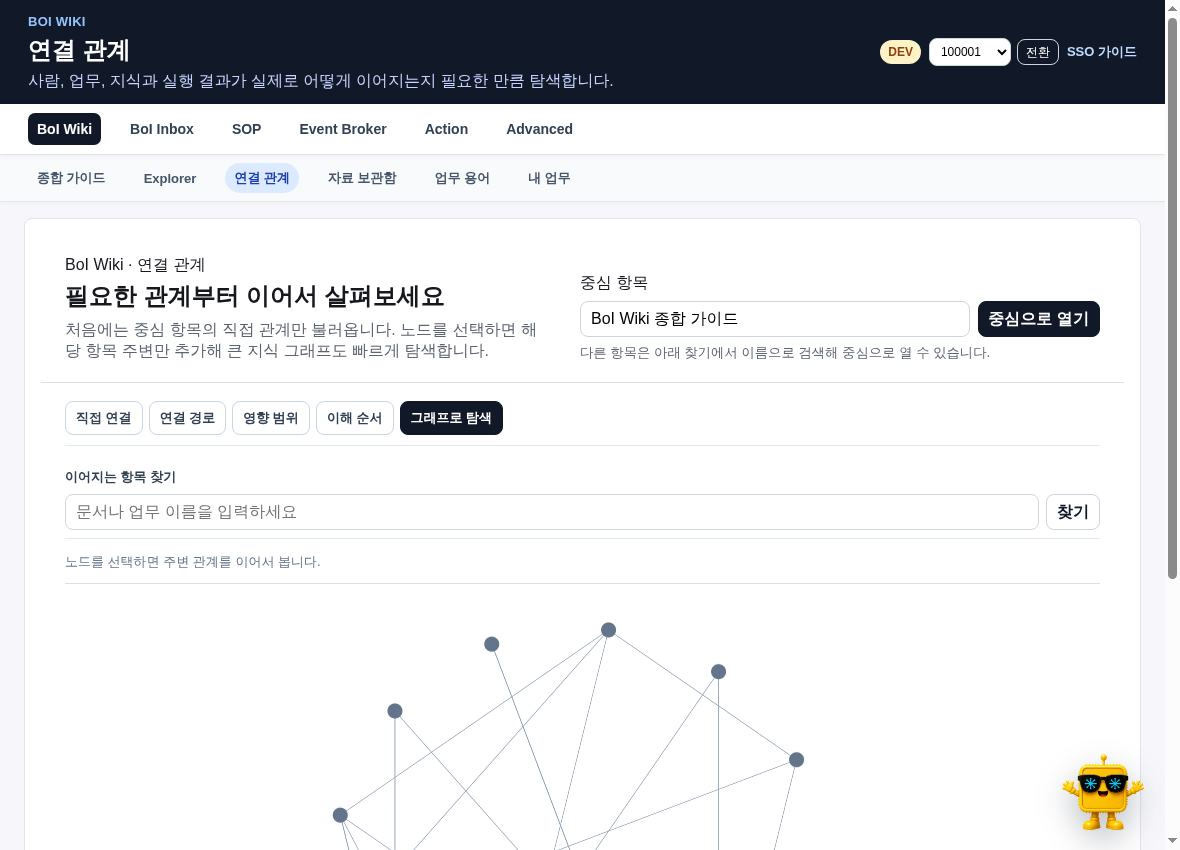
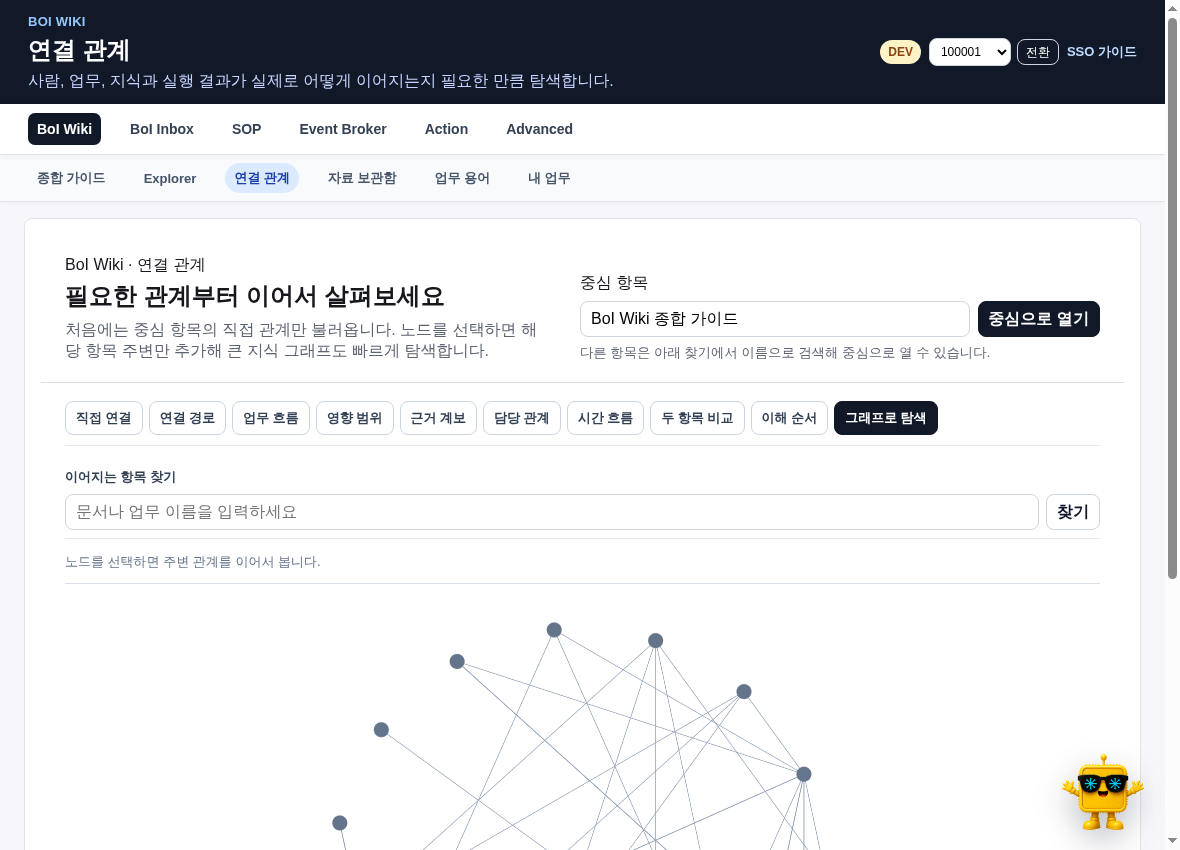
docs: record verified graph and dynamic work acceptance

diff --git a/data/boi/team/platform/validation/task-ontology-a2ui-acceptance-2026-07-13.md b/data/boi/team/platform/validation/task-ontology-a2ui-acceptance-2026-07-13.md
@@ -5,7 +5,7 @@ type: boi/validation-report
 title: Task·Ontology·동적 결과 Acceptance 2026-07-13
 description: 실제 handler, 브라우저와 로컬 Gemma로 Task·Ontology·동적 결과 계약을 재검증한 결과
 tags: [Validation, Task, Ontology, A2UI, Harness, Browser, Gemma]
-timestamp: 2026-07-13T20:10:00+09:00
+timestamp: 2026-07-13T21:31:00+09:00
 boi_id: boi:team:platform:validation:task-ontology-a2ui-2026-07-13
 visibility: team
 team_id: platform
@@ -36,7 +36,7 @@ implementation_refs:
     ref: scripts/evaluate_agent_v2_work_scenarios.py
 review:
   reviewer: platform-lead
-  reviewed_at: 2026-07-13T20:10:00+09:00
+  reviewed_at: 2026-07-13T21:31:00+09:00
   review_status: reviewed
 ---
 
@@ -44,7 +44,7 @@ review:
 
 > 이 문서는 통합 acceptance의 실제 최종 실행 기록이다. core와 선택 Adapter gate를 구분해 실행했으며 둘 다 통과했다. 형식 검사나 숨겨진 fixture는 브라우저 성공으로 계산하지 않았다.
 
-- 검증 기준: `32edc02` graph artifact·OpenKB 경계, `6d1e4d4` Pet graph lifecycle, `7f8e95b` 실제 browser journey
+- 검증 기준: `32edc02` graph artifact·OpenKB 경계, `6d1e4d4` Pet graph lifecycle, `7f8e95b` 실제 browser journey, `41385e3` graph view·guarded confirmation, `52aedf7` 의미별 browser acceptance
 - fixture version: `1.0`
 - generation model: `google/gemma-4-26b-a4b-qat`
 - embedding model: `text-embedding-bge-m3`
@@ -56,9 +56,9 @@ review:
 | 영역 | 결과 |
 |---|---:|
 | 실제 scenario handler | 50/50 |
-| clean 전체 pytest | 814 passed · 22분 57초 · 격리 TMP runtime |
+| clean 전체 pytest | 815 passed · 23분 26초 · 격리 TMP runtime |
 | Gemma 단일·멀티턴 의미 평가 | 17/17 · 모든 지표 100% · GPT-5.5 미사용 |
-| Browser journey | 15/15 · 실제 조작 · console 오류 0 |
+| Browser journey | 17/17 · 실제 조작 · console 오류 0 |
 | Browser 1440×1000 | 통과 |
 | Browser 1180×850 | 통과 |
 | Browser 949×1151 | 통과 |
@@ -66,14 +66,14 @@ review:
 | Sigma canvas·하단 inspector | workbench 폭 100% · nonblank · inspector가 폭을 줄이지 않음 |
 | Compact graph lifecycle | canvas 미생성 · 한 줄 결과 버튼 · Expanded 복원 통과 |
 | invalid surface fallback | 통과 |
-| Harness shadow·held-out·사람 검토 | 통과 · production 변경 0건 |
+| Harness shadow·held-out·사람 검토 | 통과 · 실제 release·rollback 감사 이력 확인 |
 | Context Playbook model·team scope | 통과 |
 | 반복 실패·NegativeResult·운영 Ontology | 통과 |
-| Task Snapshot cold p95 / warm p50 | 289.74ms / 17.27ms |
-| Ontology 1-hop p95 | 15.16ms |
-| Ontology 4-hop path p95 | 12.05ms |
-| A2UI compile p95 | 0.45ms |
-| 생성 graph artifact final p95 | 440.61ms |
+| Task Snapshot cold p95 / warm p50 | 260.32ms / 14.70ms |
+| Ontology 1-hop p95 | 17.20ms |
+| Ontology 4-hop path p95 | 11.37ms |
+| A2UI compile p95 | 0.56ms |
+| 생성 graph artifact final p95 | 464.27ms |
 | Graphify 0.9.13 | 실제 CLI 90 node·177 edge, import·rollback 통과 |
 | OpenKB 0.4.4 | 실제 PDF → private 후보 4개 · index/log 제외 · canonical 변경 0 |
 | Mermaid 직접 링크 cold browser | cold URL·desktop reload·mobile reload 통과 · SVG nonblank·console 오류 0 |
@@ -81,13 +81,13 @@ review:
 | Web·REST·MCP parity | 10/10 |
 | LM Studio load/unload | 0건 |
 
-브라우저에서는 Task의 `확인한 내용·수행한 조치·판단·결과·근거·막힌 점·다음 업무`, 복수 담당자 picker, revision 409, Ontology 1-hop 지연 확장, node 선택과 canonical 이동, split·집중 보기, Compact 중지·복원, 동적 표·Timeline·Mermaid·form과 fallback을 실제 DOM과 canvas로 확인했다.
+브라우저에서는 Task의 `확인한 내용·수행한 조치·판단·결과·근거·막힌 점·다음 업무`, 복수 담당자 picker, revision 409, Ontology 1-hop 지연 확장, node 선택과 canonical 이동, split·집중 보기, Compact 중지·복원, 9개 관계 보기, 동적 표·Timeline·Mermaid·form·Confirmation과 fallback을 실제 DOM과 canvas로 확인했다. 자동 확인은 관계 그림으로 우회하지 않고 기존 preview·confirmation 계약을 통해서만 생성된다.
 
 실제 Graphify export가 mock과 달리 `links`, `confidence: EXTRACTED`, `confidence_score`를 사용한다는 결함을 release gate에서 발견했다. importer를 실제 `0.9.13` 계약에 맞춘 뒤 90개 node와 177개 edge를 수입하고 같은 manifest로 모두 rollback했다. 정본 변경은 없었다.
 
 OpenKB는 `0.4.4`를 격리 tool로 실행했다. compatibility gateway가 `response_format: json_object` 요청을 이미 로드된 Gemma의 일반 JSON 요청으로 바꾸고 반환 schema를 검증한다. 실제 PDF에서 private 후보 4개가 생성됐고 `index.md`, `log.md` 후보는 0건이었다. gateway 요청 5회 중 변환은 4회, 복구 재시도는 0회였고 canonical 파일은 바뀌지 않았다.
 
-생성 graph artifact는 GraphQuery 결과를 deterministic compiler로 바로 저장하고 A2UI를 위해 별도 모델 호출을 하지 않도록 바꿨다. 최종 p95는 440.61ms다. 한편 일반 장문 Gemma 답변은 시나리오별 20~45초가 걸렸으므로 별도 운영 성능 개선 항목으로 남긴다.
+생성 graph artifact는 GraphQuery 결과를 deterministic compiler로 바로 저장하고 A2UI를 위해 별도 모델 호출을 하지 않도록 바꿨다. 최종 p95는 464.27ms다. 한편 일반 장문 Gemma 답변은 시나리오별 20~45초가 걸렸으므로 별도 운영 성능 개선 항목으로 남긴다.
 
 # 발견한 결함과 수정
 
@@ -99,19 +99,23 @@ Harness 개선 검증에서는 실제 Postgres collection registry에 `harness_f
 
 Context Playbook은 관리자 진단 권한과 실제 Context 주입 권한을 분리했다. 다른 사용자의 private 항목과 검토 전 team provisional 항목은 질문 맥락에 들어가지 않는다. 후보는 서버 shadow fingerprint와 fixture revision이 일치해야 평가할 수 있고, held-in·held-out·adversarial·long-term 기준을 모두 통과해도 `approved_not_deployed`로 남는다.
 
+자동 확인 starter는 처음에 `presentation_hint`를 우선한 graph 분기에 가로채져 plan과 Confirmation 대신 Ontology artifact를 만들었다. graph 실행을 지식 탐색 operation으로 제한하고 `work_routine.plan`은 전용 handler가 처리하도록 수정했다. 재검증에서는 Confirmation component가 실제로 보였고, 확인 전 production routine 변경은 0건이었다.
+
+Timeline API는 16개 행을 반환했지만 응답에 함께 있던 빈 `tour_steps` 배열이 실제 `timeline` 배열보다 먼저 선택돼 화면이 비어 보였다. renderer가 이름이 아니라 첫 번째 non-empty 의미 payload를 선택하도록 수정하고, neighbors·path·workflow·impact·lineage·responsibility·timeline·compare·tour를 화면 버튼으로 각각 전환해 결과 차이를 확인했다.
+
 # Raw artifact
 
 검증 raw artifact는 정본 지식이 아니라 runtime evidence다.
 
-- `.tmp/task-ontology-acceptance-report-final4.json`
-- `.tmp/task-ontology-browser-report-final5.json`
-- `.tmp/task-ontology-browser-shots-final5/`
+- `.tmp/task-ontology-acceptance-report-final6.json`
+- `.tmp/task-ontology-browser-report-final6d.json`
+- `.tmp/task-ontology-browser-shots-final6d/`
 - `.tmp/agent-v2-semantic-report-final5-core.json`
 - `.tmp/agent-v2-semantic-report-final5-deep.json`
-- `.tmp/full-pytest-final5.log`
+- `.tmp/full-pytest-final6.log`
 - `.tmp/search-quality-final5.json`
 - `.tmp/interface-parity-final5.json`
-- `.tmp/openkb-release-report-final5.json`
+- `.tmp/openkb-release-report-final6.json`
 - `.tmp/current-manual-capture-manifest.json`
 - `.tmp/graphify-job.json`
 - `.tmp/graphify-rollback.json`

diff --git a/data/boi/public/boi-wiki-manual/operations/task-ontology-a2ui-acceptance.md b/data/boi/public/boi-wiki-manual/operations/task-ontology-a2ui-acceptance.md
@@ -5,7 +5,7 @@ type: boi/manual
 title: Task·Ontology·동적 화면 검증 기준
 description: Task 수행, 업무 관계 탐색과 동적 결과 화면을 실제 업무에 사용하기 전에 확인하는 acceptance 기준
 tags: [BoIWiki, Task, Ontology, A2UI, Acceptance, Evidence]
-timestamp: 2026-07-13T20:10:00+09:00
+timestamp: 2026-07-13T21:31:00+09:00
 boi_id: boi:public:boi-wiki-manual:operations:task-ontology-a2ui-acceptance
 visibility: public
 classification: internal
@@ -33,7 +33,7 @@ implementation_refs:
     ref: scripts/evaluate_agent_v2_work_scenarios.py
 review:
   reviewer: platform-lead
-  reviewed_at: 2026-07-13T20:10:00+09:00
+  reviewed_at: 2026-07-13T21:31:00+09:00
   review_status: reviewed
 ---
 
@@ -88,19 +88,19 @@ GPT-5.5는 기본 acceptance에 사용하지 않는다. Gemma에서 실패하거
 
 # 현재 검증 상태
 
-2026-07-13 기준으로 50개 handler, 15개 실제 browser journey와 production-like Gemma 의미 평가를 실행했다. 브라우저 검증은 숨겨진 fixture나 HTML 문자열 존재를 성공으로 세지 않고 실제 클릭, 입력, canvas pixel, 원문 이동과 상태 복원을 확인한다.
+2026-07-13 기준으로 50개 handler, 17개 실제 browser journey와 production-like Gemma 의미 평가를 실행했다. 브라우저 검증은 숨겨진 fixture나 HTML 문자열 존재를 성공으로 세지 않고 실제 클릭, 입력, canvas pixel, 원문 이동과 상태 복원을 확인한다.
 
 | 검증 | 결과 |
 |---|---:|
 | 결정적 시나리오 | 50/50 |
-| clean 전체 회귀 | 814 passed · 22분 57초 · 격리 TMP runtime |
-| 브라우저 journey | 15/15 · 4 viewport · 예상된 409 외 console 오류 0 |
+| clean 전체 회귀 | 815 passed · 23분 26초 · 격리 TMP runtime |
+| 브라우저 journey | 17/17 · 4 viewport · 예상된 409 외 console 오류 0 |
 | Gemma 단일·멀티턴 의미 평가 | 17/17 · 모든 평가 지표 100% · GPT-5.5 미사용 |
-| Snapshot cold p95 / warm p50 | 289.74ms / 17.27ms |
-| 1-hop 관계 p95 | 15.16ms |
-| 4-hop path p95 | 12.05ms |
-| 첫 동적 surface compile p95 | 0.45ms |
-| 생성 graph artifact final p95 | 440.61ms |
+| Snapshot cold p95 / warm p50 | 260.32ms / 14.70ms |
+| 1-hop 관계 p95 | 17.20ms |
+| 4-hop path p95 | 11.37ms |
+| 첫 동적 surface compile p95 | 0.56ms |
+| 생성 graph artifact final p95 | 464.27ms |
 | Graphify 0.9.13 실제 CLI | 90 node·177 edge 수입 후 rollback 통과 |
 | OpenKB 0.4.4 실제 CLI | 실제 PDF에서 private 후보 4개 생성 · navigation 0 · 정본 변경 0 |
 | Graph UX | 1440×1000·1180×850·949×1151·390×844, canvas 폭 100%, 하단 inspector·Compact 복원 통과 |
@@ -110,9 +110,11 @@ GPT-5.5는 기본 acceptance에 사용하지 않는다. Gemma에서 실패하거
 
 실모델 평가는 사용자가 띄운 Gemma만 사용한다. `업무 이벤트와 SOP 관계 설명 → 방금 관계만 Mermaid` 멀티턴에서 직전 citation보다 넓은 검색 후보를 다시 해석해 되묻는 결함을 발견했고, 실제 citation 집합을 후속 표현 변환의 경계로 사용하도록 수정한 뒤 해당 시나리오가 통과했다. 실패와 수정 이력은 날짜별 Team validation 문서에 남기며, 이전의 형식 검사 결과는 역사적 draft로 유지한다.
 
-초기 실행에서는 OpenKB의 `response_format: json_object`가 LM Studio endpoint와 맞지 않았고 생성 artifact p95도 18.71초였다. compatibility gateway가 요청을 일반 JSON 호출로 변환한 뒤 schema를 검증하고, GraphQuery 결과를 추가 모델 호출 없이 deterministic compiler로 artifact화하도록 수정했다. 최종 실행에서는 OpenKB와 440.61ms artifact gate가 모두 통과했다.
+초기 실행에서는 OpenKB의 `response_format: json_object`가 LM Studio endpoint와 맞지 않았고 생성 artifact p95도 18.71초였다. compatibility gateway가 요청을 일반 JSON 호출로 변환한 뒤 schema를 검증하고, GraphQuery 결과를 추가 모델 호출 없이 deterministic compiler로 artifact화하도록 수정했다. 최종 실행에서는 OpenKB와 464.27ms artifact gate가 모두 통과했다.
 
-일반 장문 답변의 모델 처리 시간은 이번 artifact gate와 분리해 기록한다. 최종 Gemma 의미 평가에서는 답변 종류에 따라 20~45초가 걸렸으므로 운영 성능 개선 대상이다. 이 지연을 숨기거나 440.61ms artifact 수치로 대체하지 않는다.
+브라우저에서는 9개 관계 질의를 각각 화면에서 전환하고, Timeline이 실제 시간 payload를 표시하는지 확인했다. 자동 확인 starter는 graph artifact가 아니라 guarded Confirmation을 열며, 확인 전에는 routine을 만들지 않는다. Harness는 rehearsal뿐 아니라 사람 release와 rollback까지 실제 API와 감사 이력으로 검증했다.
+
+일반 장문 답변의 모델 처리 시간은 이번 artifact gate와 분리해 기록한다. 최종 Gemma 의미 평가에서는 답변 종류에 따라 20~45초가 걸렸으므로 운영 성능 개선 대상이다. 이 지연을 숨기거나 464.27ms artifact 수치로 대체하지 않는다.
 
 새 component, relation, Task mode 또는 Adapter 계약을 추가하면 해당 handler와 browser journey를 함께 추가하고 이 문서를 다시 검증 상태로 전환한다.
 

diff --git a/data/boi/public/boi-wiki-manual/agent/using-boi-agent.md b/data/boi/public/boi-wiki-manual/agent/using-boi-agent.md
@@ -72,6 +72,8 @@ stateDiagram-v2
 
 관계 탐색 결과가 있으면 일반 분할 화면은 대화 34%, 결과 66%를 사용한다. 실제 그래프 폭이 680px보다 좁은 첫 진입에서는 결과를 크게 열어 노드 이름을 읽을 공간을 먼저 확보한다. 사용자가 `대화와 함께 보기`로 돌아오면 같은 작업에서 그 선택을 기억한다. Compact에서는 그래프를 실행하지 않고 결과 버튼만 보여주며, Expanded·Fullpage와 모바일 `결과` 탭에서만 관계 탐색을 렌더링한다.
 
+관계 결과에서 그래프는 결과 폭 전체를 쓴다. 항목을 고르면 오른쪽 열을 새로 만들지 않고 아래쪽에 선택 항목 정보가 열리므로 그래프 폭이 줄지 않는다. `Esc`는 선택 정보, 결과 집중 보기, Expanded 순서로 한 단계씩 닫는다. 선택한 항목, 확대 위치와 보기 방식은 같은 작업을 다시 열 때 복원된다.
+
 BoI Agent는 Advanced에 별도 메뉴로 존재하지 않는다. Pet을 펼치거나 `/agent` 전체 화면을 사용한다. Expanded와 Fullpage의 `⋯` 메뉴에서만 `나만의 BoI Agent 만들기`와 `외부에서 사용`을 연다.
 
 ![현재 문서를 맥락으로 연 BoI Agent Compact 화면](../_media/browser/current-guide/20260713-boi-agent-compact-1440x1000.png)
@@ -207,7 +209,7 @@ SOP 초안은 결과 영역에서 Workflow와 Task 목록으로 보인다. `Task
 
 # 자동 확인과 Deep Work
 
-“매주 이 기준으로 다시 확인해줘”처럼 반복 확인을 요청하면 먼저 목적, 다음 확인 조건과 종료 조건을 보여준다. 확인 전에는 routine을 만들지 않는다. 진행 중이거나 실패한 자동 확인이 있을 때만 Pet에 상태를 표시한다.
+“매주 이 기준으로 다시 확인해줘”처럼 반복 확인을 요청하면 먼저 목적, 다음 확인 조건과 종료 조건을 실행 전 확인 화면으로 보여준다. 이 요청은 관계 그림으로 바뀌지 않으며 사용자가 확인하기 전에는 routine을 만들지 않는다. 진행 중이거나 실패한 자동 확인이 있을 때만 Pet에 상태를 표시한다.
 
 다수 자료 조사, 긴 보고서, SOP 재구성처럼 오래 걸리는 작업은 DeepAgents worker가 격리된 context에서 수행한다. 결과는 항상 draft이며 production mutation tool을 갖지 않는다. job은 retry, cancel, timeout과 재시작 복구를 지원한다.
 

diff --git a/data/boi/team/platform/team-platform-boi-wiki-architecture.md b/data/boi/team/platform/team-platform-boi-wiki-architecture.md
@@ -246,7 +246,7 @@ flowchart LR
   SURFACE --> MUTATION["preview·confirmation·Harness"]
 ```
 
-Web client는 저장된 surface를 다시 조회하고 허용된 component registry로 실제 DOM을 만든다. 표, Timeline, Mermaid, Ontology Explorer, WorkRecordForm과 EvidencePicker가 1차 catalog다. surface validation과 fallback 상태는 Advanced `연결 상태`의 관리자용 접힌 진단에서만 확인하며 일반 사용자에게 protocol 이름을 노출하지 않는다.
+Web client는 저장된 surface를 다시 조회하고 허용된 component registry로 실제 DOM을 만든다. 표, Timeline, Mermaid, Ontology Explorer, WorkRecordForm, EvidencePicker와 Confirmation이 1차 catalog다. Confirmation은 기존 plan·Harness·confirmation API만 호출하며 relation presentation hint가 work routine handler를 가로채지 못한다. surface validation과 fallback 상태는 Advanced `연결 상태`의 관리자용 접힌 진단에서만 확인하며 일반 사용자에게 protocol 이름을 노출하지 않는다.
 
 Ontology Explorer는 Agent와 `/knowledge-graph`가 같은 Graphology·Sigma renderer를 사용한다. Agent Expanded에서는 관계 artifact에 34:66 분할을 적용하고, 680px보다 좁은 첫 canvas는 결과 집중 보기로 전환한다. 선택 상세는 canvas 옆 열을 만들지 않고 아래쪽 inspector로 열어 그래프 폭을 보존한다. `PetSurfaceState`는 artifact별 선택 node, inspector, camera와 focus mode를 저장한다. Compact에서는 Sigma instance를 만들지 않으며 배경으로 내려간 renderer도 camera를 저장한 뒤 해제한다.
 

diff --git a/data/boi/public/boi-wiki-manual/operations/operator-runbook.md b/data/boi/public/boi-wiki-manual/operations/operator-runbook.md
@@ -200,7 +200,7 @@ python scripts/check_openkb_release_gate.py \
   --output .tmp/openkb-release-gate.json
 ```
 
-첫 명령은 격리된 결정적 계약, 두 번째는 실제 API 성능과 model residency, 세 번째는 로컬 Gemma 의미 품질, 네 번째는 15개 실제 브라우저 journey와 네 viewport를 검증한다. 마지막 명령은 실제 PDF·Office 원본에서 OpenKB private 후보가 생성되는지 확인한다. 실패·모호 사례를 별도 심사 대상으로 표시할 때만 `BOI_GPT55_TEST_MODE=1`과 `--judge-failures`를 함께 사용한다.
+첫 명령은 격리된 결정적 계약, 두 번째는 실제 API 성능과 model residency, 세 번째는 로컬 Gemma 의미 품질, 네 번째는 17개 실제 브라우저 journey와 네 viewport를 검증한다. 브라우저 여정은 9개 관계 보기, guarded Confirmation, Harness release·rollback, Task 배정 충돌과 WorkRecord 저장을 실제로 조작한다. 마지막 명령은 실제 PDF·Office 원본에서 OpenKB private 후보가 생성되는지 확인한다. 실패·모호 사례를 별도 심사 대상으로 표시할 때만 `BOI_GPT55_TEST_MODE=1`과 `--judge-failures`를 함께 사용한다.
 
 외부 Adapter release gate는 core acceptance와 분리한다. 운영자가 승인한 격리 tool 버전과 실제 export를 사용하고 mock CLI 통과를 release 통과로 계산하지 않는다.
 
